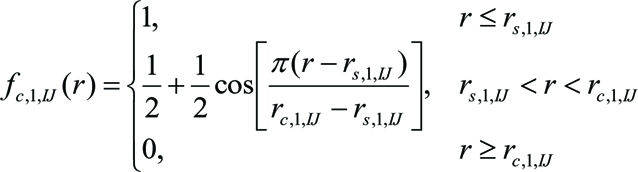
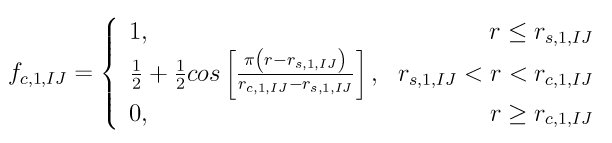
git-svn-id: svn://svn.icms.temple.edu/lammps-ro/trunk@13796 f3b2605a-c512-4ea7-a41b-209d697bcdaa

diff --git a/doc/Eqs/polymorphic7.tex b/doc/Eqs/polymorphic7.tex
@@ -1,0 +1,25 @@
+\documentclass[12pt]{article}
+
+\begin{document}
+
+\begin{eqnarray*}
+\left\{\begin{array}{l}
+\eta_{ij}=\delta_{ij},\xi_{IJ}=1 \\
+U_{IJ}\left(r\right)=\left\{\begin{array}{lr}
+A_{IJ}\cdot exp\left(-\lambda_{1,IJ}\cdot r\right)\cdot f_{c,IJ}\left(r\right), & r\leq r_{s,1,IJ} \\
+A_{IJ}\cdot exp\left(-\lambda_{1,IJ}\cdot r\right)\cdot f_{c,IJ}\left(r\right)\cdot f_{c,1,IJ}\left(r\right), & r_{s,1,IJ}<r<r_{c,1,IJ} \\
+0, & r\ge r_{c,1,IJ}
+\end{array}\right. \\
+V_{IJ}\left(r\right)=\left\{\begin{array}{lr}
+B_{IJ} \cdot exp\left(-\lambda_{2,IJ}\cdot r\right)\cdot f_{c,IJ}\left(r\right), & r\le r_{s,1,IJ} \\
+B_{IJ} \cdot exp\left(-\lambda_{2,IJ}\cdot r\right)\cdot f_{c,IJ}\left(r\right)+A_{IJ}\cdot exp\left(-\lambda_{1,IJ}\cdot r\right)\cdot & \\ ~~~~~~ f_{c,IJ}\left(r\right)\cdot \left[1-f_{c,1,IJ}\left(r\right)\right], & r_{s,1,IJ}<r<r_{c,1,IJ} \\
+B_{IJ} \cdot exp\left(-\lambda_{2,IJ}\cdot r\right)\cdot f_{c,IJ}\left(r\right)+A_{IJ}\cdot exp\left(-\lambda_{1,IJ}\cdot r\right)\cdot & \\ ~~~~~~ f_{c,IJ}\left(r\right) & r \ge r_{c,1,IJ}
+\end{array}\right. \\
+F_{IJ}\left(X\right)=\left[1+\left(\beta_{IJ}\cdot X\right)^{n_{IJ}}\right]^{-\frac{1}{2n_{IJ}}} \\
+P_{IJ}\left(\Delta r\right)=exp\left(\lambda_{3,IK}\cdot \Delta r^3\right) \\ 
+W_{IJ}\left(r\right)=f_{c,IK}\left(r\right) \\
+G_{JIK}\left(\theta\right)=1+\frac{c_{IK}^2}{d_{IK}^2}-\frac{c_{IK}^2}{d_{IK}^2+\left(h_{IK}+cos\theta\right)^2}
+\end{array}\right.
+\end{eqnarray*} 
+
+\end{document}

diff --git a/doc/Eqs/polymorphic4.tex b/doc/Eqs/polymorphic4.tex
@@ -1,0 +1,17 @@
+\documentclass[12pt]{article}
+
+\begin{document}
+
+\begin{eqnarray*}
+\left\{\begin{array}{l}
+\eta_{ij}=\delta_{ij},\xi_{IJ}=0 \\
+U_{IJ}\left(r\right)=A_{IJ}\cdot\epsilon_{IJ}\cdot \left(\frac{\sigma_{IJ}}{r}\right)^q\cdot \left[B_{IJ}\cdot \left(\frac{\sigma_{IJ}}{r}\right)^{p-q}-1\right]\cdot exp\left(\frac{\sigma_{IJ}}{r-a_{IJ}\cdot \sigma_{IJ}}\right) \\
+V_{IJ}\left(r\right)=\sqrt{\lambda_{IJ}\cdot \epsilon_{IJ}}\cdot exp\left(\frac{\gamma_{IJ}\cdot \sigma_{IJ}}{r-a_{IJ}\cdot \sigma_{IJ}}\right) \\ 
+F_{IJ}\left(X\right)=-X \\
+P_{IJ}\left(\Delta r\right)=1 \\ 
+W_{IJ}\left(r\right)=\sqrt{\lambda_{IJ}\cdot \epsilon_{IJ}}\cdot exp\left(\frac{\gamma_{IJ}\cdot \sigma_{IJ}}{r-a_{IJ}\cdot \sigma_{IJ}}\right) \\
+G_{JIK}\left(\theta\right)=\left(cos\theta+\frac{1}{3}\right)^2
+\end{array}\right.
+\end{eqnarray*} 
+
+\end{document}

diff --git a/doc/Eqs/polymorphic5.tex b/doc/Eqs/polymorphic5.tex
@@ -1,0 +1,17 @@
+\documentclass[12pt]{article}
+
+\begin{document}
+
+\begin{eqnarray*}
+\left\{\begin{array}{l}
+\eta_{ij}=\delta_{ij},\xi_{IJ}=1 \\
+U_{IJ}\left(r\right)=\frac{D_{e,IJ}}{S_{IJ}-1}\cdot exp\left[-\beta_{IJ}\sqrt{2S_{IJ}\left(r-r_{e,IJ}\right)}\right]\cdot f_{c,IJ}\left(r\right) \\
+V_{IJ}\left(r\right)=\frac{S_{IJ}\cdot D_{e,IJ}}{S_{IJ}-1}\cdot exp\left[-\beta_{IJ}\sqrt{\frac{2}{S_{IJ}}\left(r-r_{e,IJ}\right)}\right]\cdot f_{c,IJ}\left(r\right) \\
+F_{IJ}\left(X\right)=\left(1+X\right)^{-\frac{1}{2}} \\
+P_{IJ}\left(\Delta r\right)=exp\left(2\mu_{IK}\cdot \Delta r\right) \\ 
+W_{IJ}\left(r\right)=f_{c,IK}\left(r\right) \\
+G_{JIK}\left(\theta\right)=\gamma_{IK}\left[1+\frac{c_{IK}^2}{d_{IK}^2}-\frac{c_{IK}^2}{d_{IK}^2+\left(h_{IK}+cos\theta\right)^2}\right]
+\end{array}\right.
+\end{eqnarray*} 
+
+\end{document}

diff --git a/doc/Eqs/polymorphic9.tex b/doc/Eqs/polymorphic9.tex
@@ -1,0 +1,17 @@
+\documentclass[12pt]{article}
+
+\begin{document}
+
+\begin{eqnarray*}
+\left\{\begin{array}{l}
+\eta_{ij}=1-\delta_{ij},\xi_{IJ}=0 \\
+U_{IJ}\left(r\right)=\phi_{IJ}\left(r\right) \\
+V_{IJ}\left(r\right)=1 \\
+F_{II}\left(X\right)=-2F_I\left(X\right) \\
+P_{IJ}\left(\Delta r\right)=1 \\ 
+W_{IJ}\left(r\right)=f_{K}\left(r\right) \\
+G_{JIK}\left(\theta\right)=1
+\end{array}\right.
+\end{eqnarray*} 
+
+\end{document}

diff --git a/doc/Eqs/polymorphic8.tex b/doc/Eqs/polymorphic8.tex
@@ -1,0 +1,13 @@
+\documentclass[12pt]{article}
+
+\begin{document}
+
+\begin{eqnarray*}
+f_{c,1,IJ}=\left\{\begin{array}{lr}
+1, & r\leq r_{s,1,IJ} \\
+\frac{1}{2}+\frac{1}{2} cos \left[\frac{\pi \left(r-r_{s,1,IJ}\right)}{r_{c,1,IJ}-r_{s,1,IJ}}\right], & r_{s,1,IJ}<r<r_{c,1,IJ} \\
+0, & r \geq r_{c,1,IJ} \\
+\end{array}\right.
+\end{eqnarray*} 
+
+\end{document}

diff --git a/doc/Eqs/polymorphic6.tex b/doc/Eqs/polymorphic6.tex
@@ -1,0 +1,13 @@
+\documentclass[12pt]{article}
+
+\begin{document}
+
+\begin{eqnarray*}
+f_{c,IJ}=\left\{\begin{array}{lr}
+1, & r\leq r_{s,IJ} \\
+\frac{1}{2}+\frac{1}{2} cos \left[\frac{\pi \left(r-r_{s,IJ}\right)}{r_{c,IJ}-r_{s,IJ}}\right], & r_{s,IJ}<r<r_{c,IJ} \\
+0, & r \geq r_{c,IJ} \\
+\end{array}\right.
+\end{eqnarray*} 
+
+\end{document}

diff --git a/doc/Eqs/polymorphic1.tex b/doc/Eqs/polymorphic1.tex
@@ -1,0 +1,9 @@
+\documentclass[12pt]{article}
+
+\begin{document}
+
+$$
+E=\frac{1}{2}\sum_{i=1}^{i=N}\sum_{j=1}^{j=N}\left[\left(1-\delta_{ij}\right)\cdot U_{IJ}\left(r_{ij}\right)-\left(1-\eta_{ij}\right)\cdot F_{IJ}\left(r_{ij}\right)\cdot V_{IJ}\left(r_{ij}\right)\right]
+$$
+
+\end{document}

diff --git a/doc/Eqs/polymorphic2.tex b/doc/Eqs/polymorphic2.tex
@@ -1,0 +1,10 @@
+\documentclass[12pt]{article}
+
+\begin{document}
+
+$$
+X_{ij}=\sum_{k=i_1,k\neq i,j}^{i_N}W_{IK}\left(r_{ik}\right)\cdot G_{JIK}\left(\theta_{jik}\right)\cdot P_{IK}\left(\Delta r_{jik}\right)
+\label{X_eq2}
+$$
+
+\end{document}

diff --git a/doc/Eqs/polymorphic3.tex b/doc/Eqs/polymorphic3.tex
@@ -1,0 +1,10 @@
+\documentclass[12pt]{article}
+
+\begin{document}
+
+$$
+\Delta r_{jik}=r_{ij}-\xi_{IJ}\cdot r_{ik}
+\label{Dr_eq3}
+$$
+
+\end{document}
